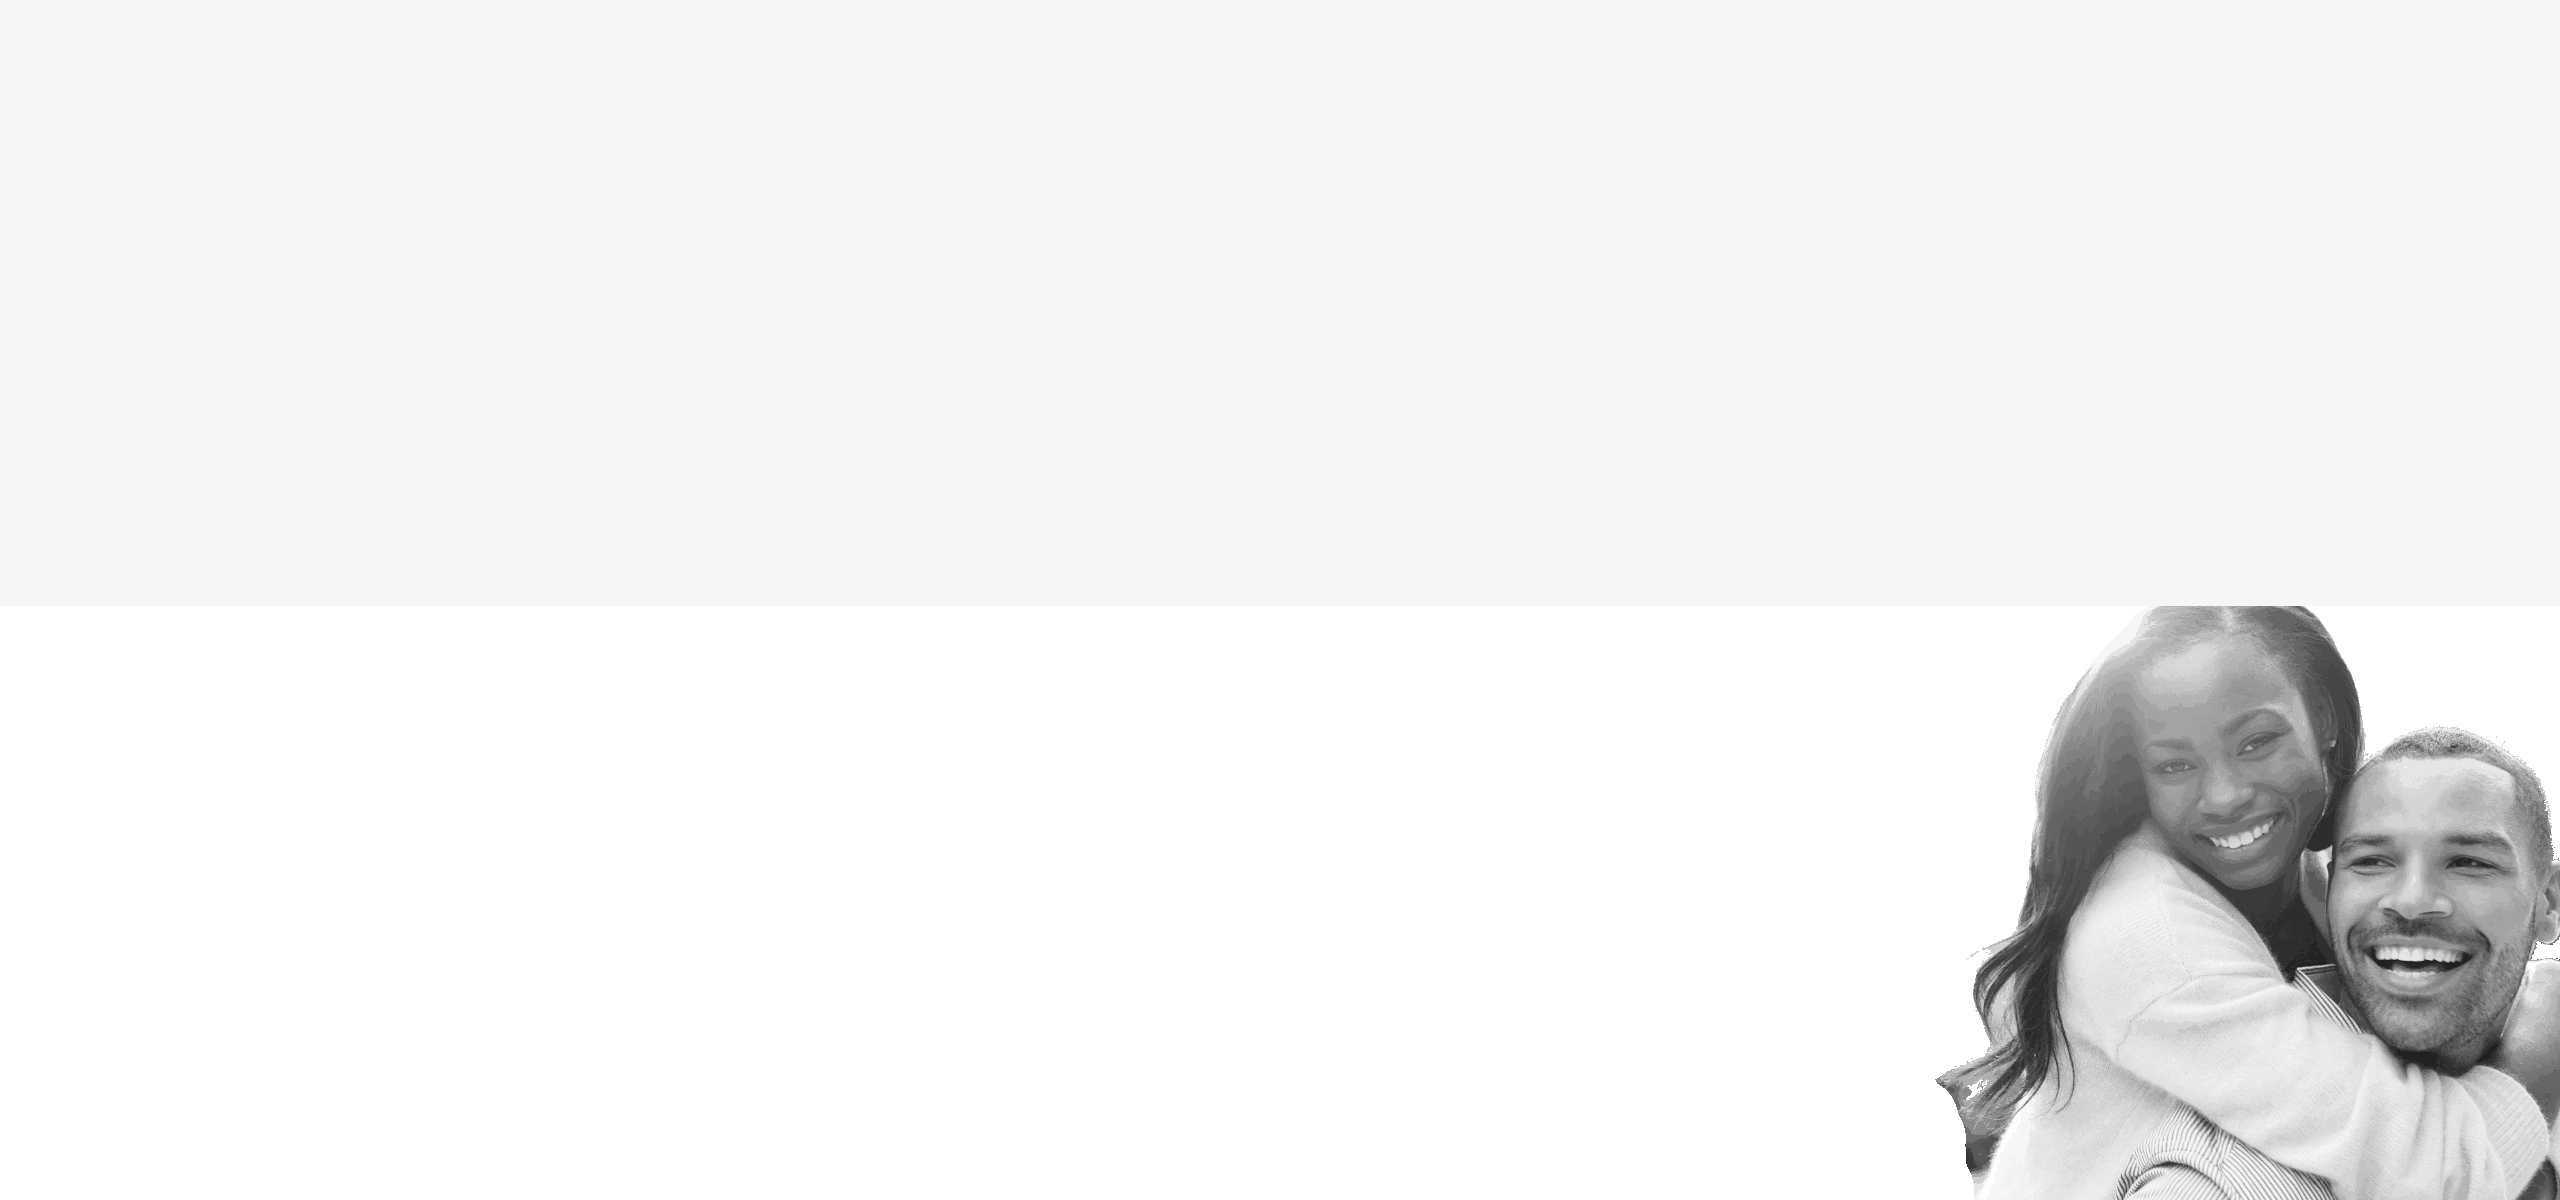
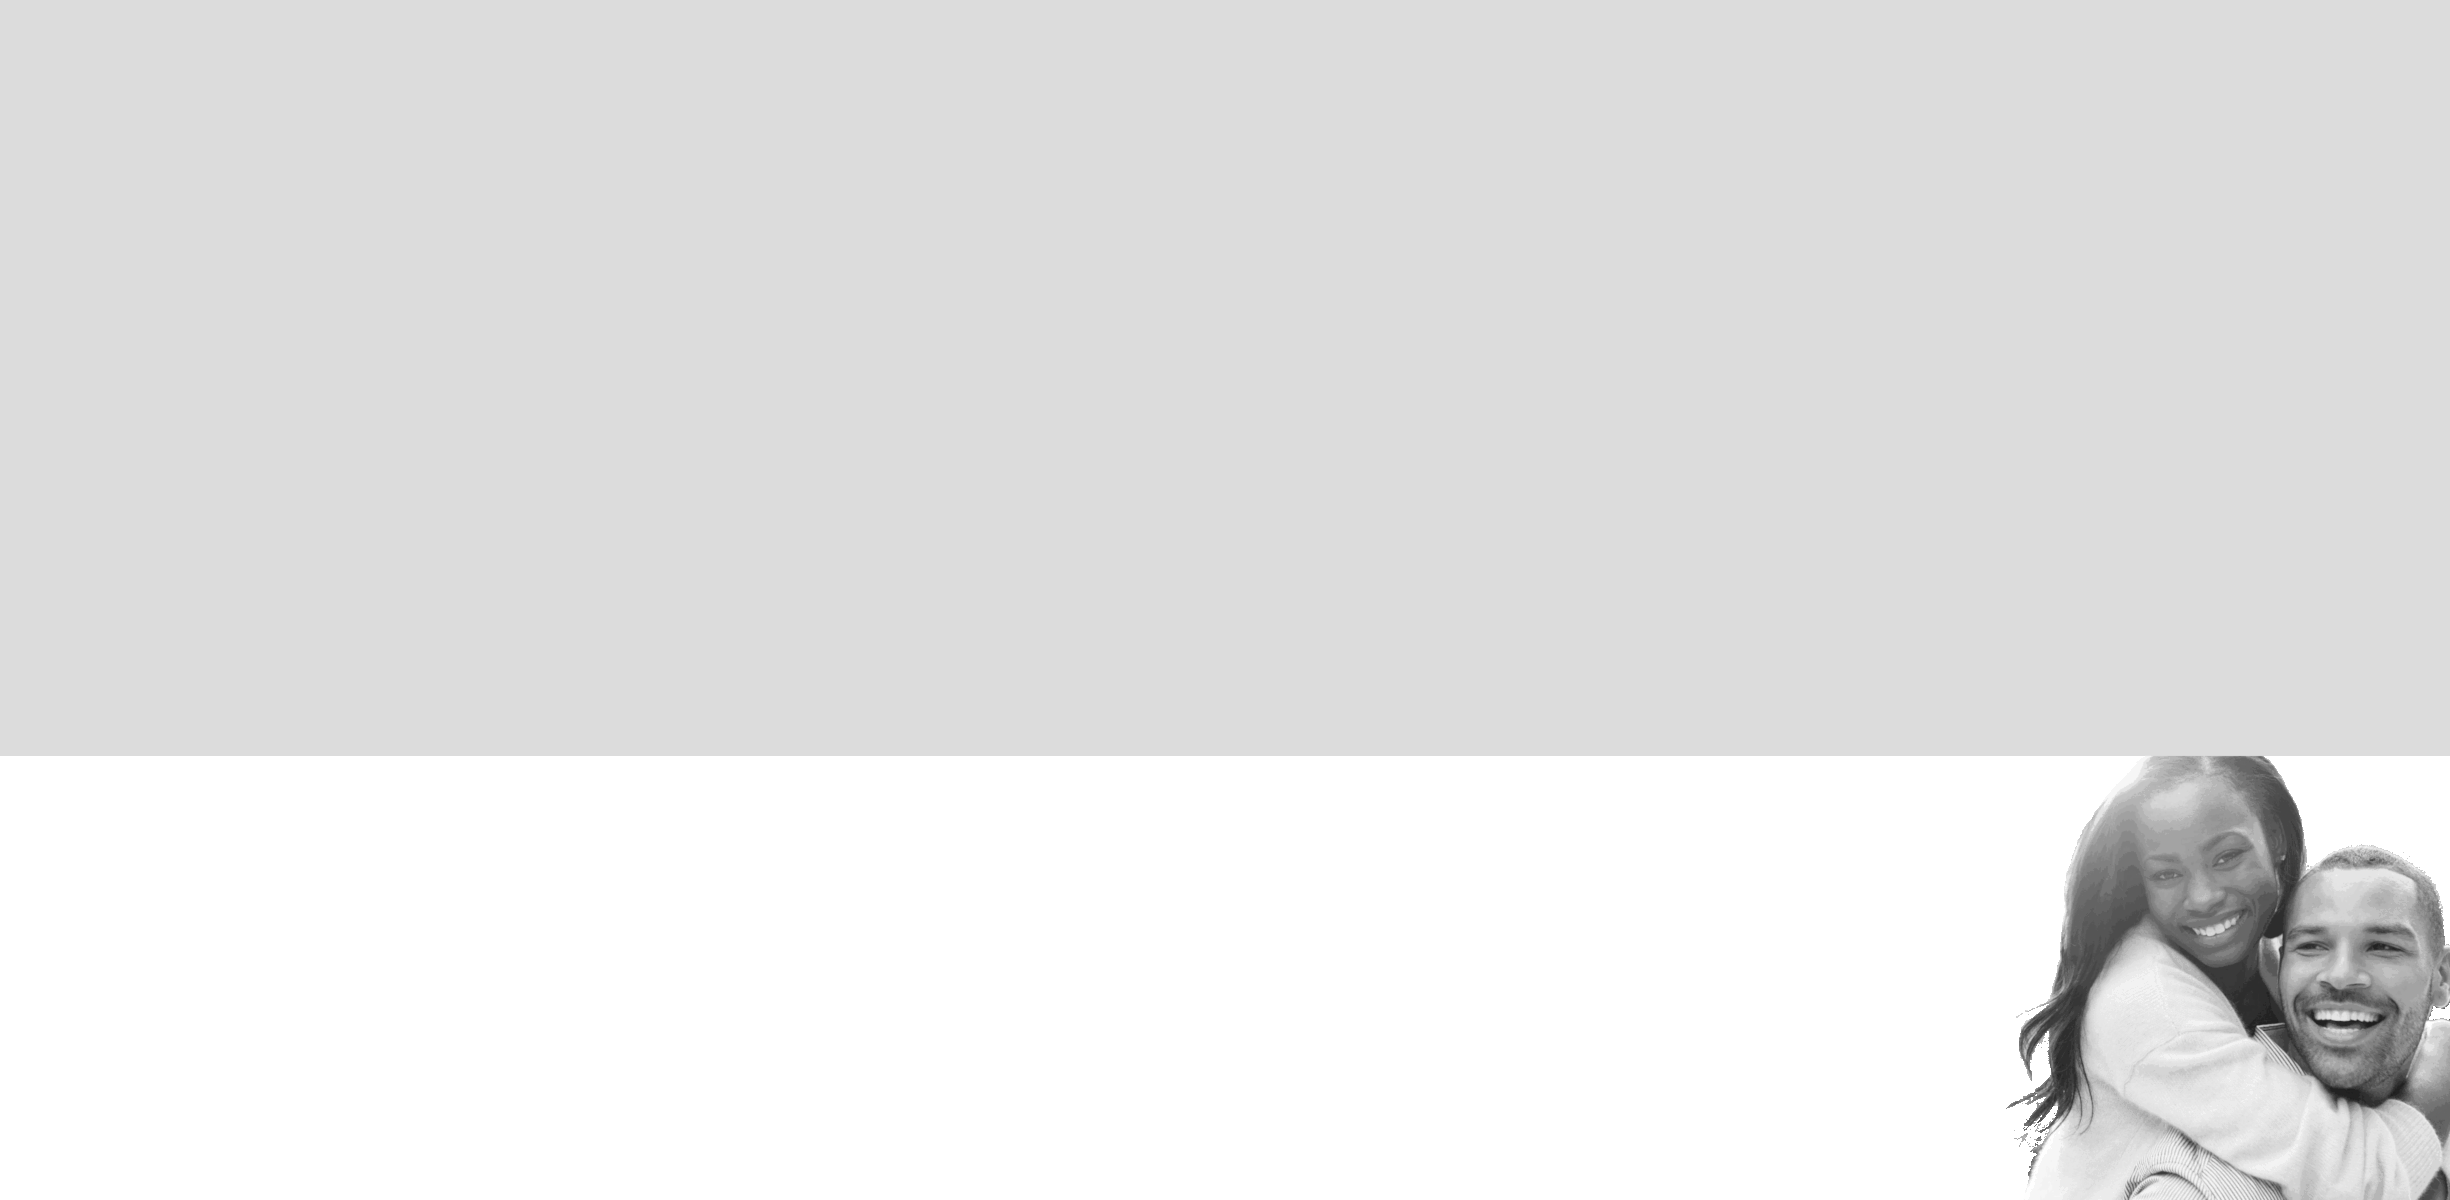
Add images

diff --git a/application/static/css/style.css b/application/static/css/style.css
@@ -27,7 +27,8 @@ body {
 .home__page {
     width: 100%;
     height: 100%;
-    background-image: url('../images/couple_for_web_bw.png');
+    background: url('../images/couple_for_web_bw.png'), 
+                linear-gradient(to bottom, #FFFFFF 50%, #7B7B7A 50%);
     background-position: bottom right;
     background-size: cover;
     background-repeat: no-repeat;
@@ -37,6 +38,13 @@ body {
     background-image: url('../images/man_laugh_for_web_bw.png');
     background-position: bottom left;
     background-size: auto;
+    background-repeat: no-repeat;
+}
+
+.signup__page {
+    background-image: url('../images/side_face_bw.png');
+    background-position: bottom left;
+    background-size: cover;
     background-repeat: no-repeat;
 }
 
@@ -167,7 +175,7 @@ nav {
     width: 100%;
     height: 100%;
     margin: 0 auto;
-    max-width: 1000px;
+    /* max-width: 1000px; */
 }
 
 form {

diff --git a/application/templates/auth/signup.html b/application/templates/auth/signup.html
@@ -6,7 +6,7 @@
 
 {% block content %}
 
-  <section class="form__container">
+  <section class="form__container signup__page">
 
     <h1 class="page__header-2">Esp2Eng!</h1>
 
